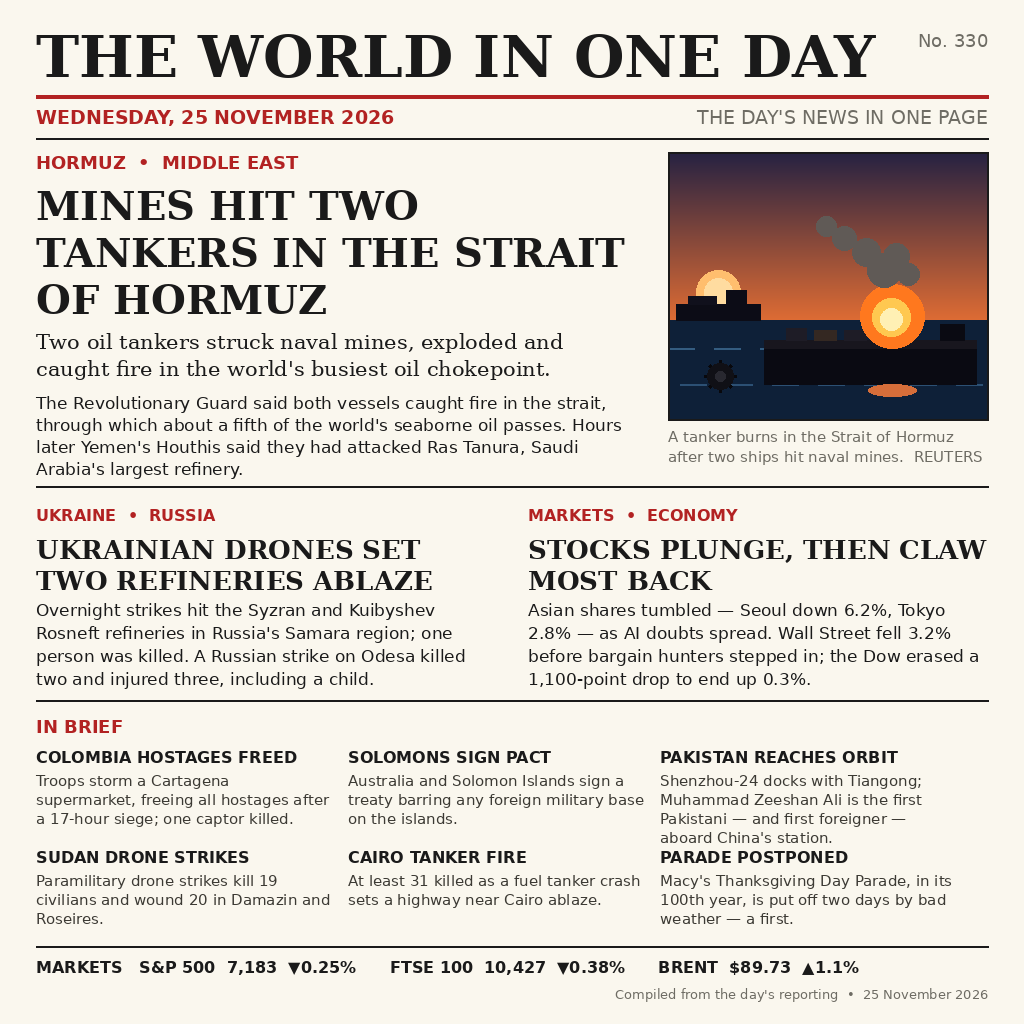
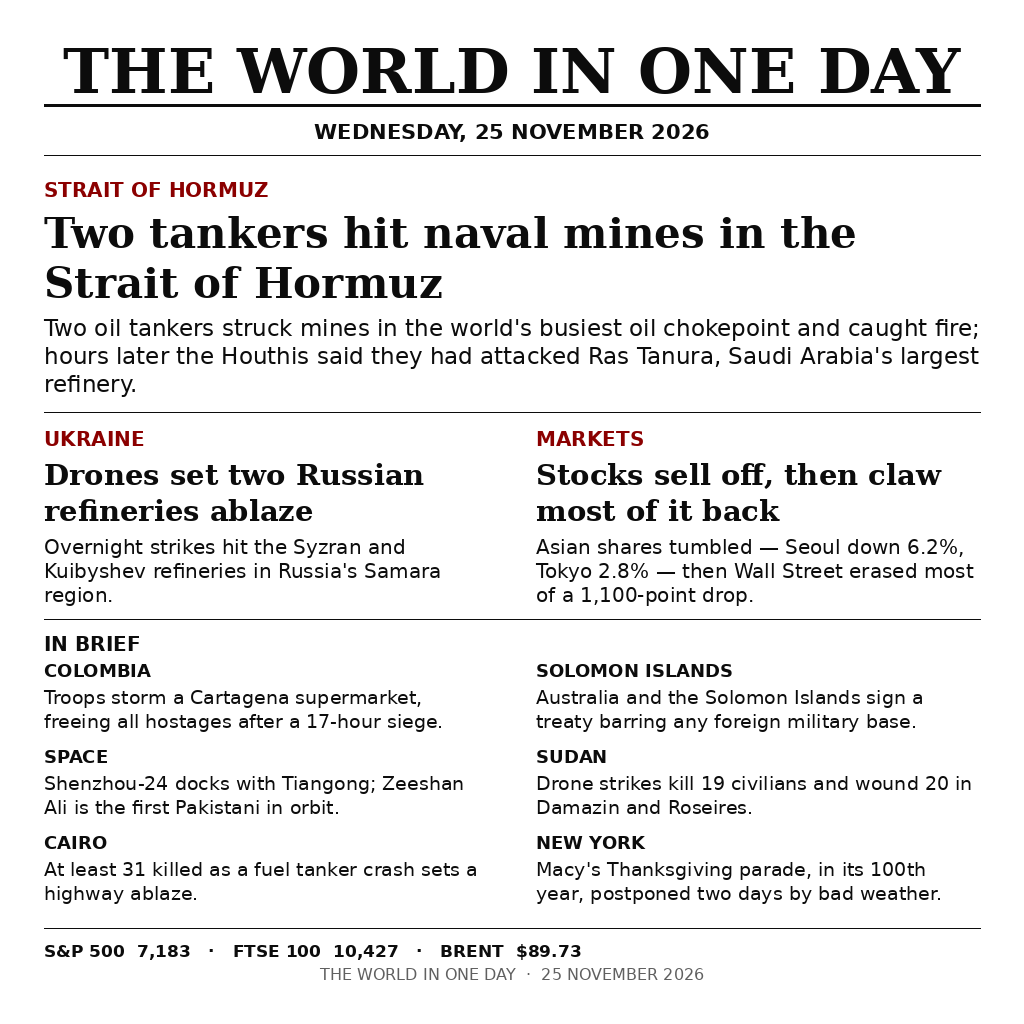
Rewrite front-page generator from scratch (own layout, size gate, layout fixes); regenerate entry.png

Changed region(s): [[0.0312, 0.0312, 0.9688, 1.0], [0.8438, 0.9688, 0.9375, 1.0]]

diff --git a/build_image.py b/build_image.py
@@ -1,185 +1,182 @@
-#!/usr/bin/env python3
-"""Build entry.png for news-image-20261125: a newspaper front page summing up
-Wednesday 25 November 2026. Flat PIL artwork + PIL text, 1024x1024, < 1 MiB."""
+"""Draw entry.png for news-image-20261125: a newspaper front page summing up
+Wednesday 25 November 2026 in one image.
+
+Layout, top to bottom: a serif masthead with the date, one lead story on the
+Strait of Hormuz tanker mines, a two-column second row (Ukraine refineries,
+the markets sell-off), then six briefs, a markets ticker and a footer. All
+of it is drawn with PIL flat shapes and text, so every word stays legible
+to the judge, and the drawing is fully deterministic: same fonts, same
+text, same pixels on every run.
+
+Run it with:  python3 build_image.py
+It writes entry.png next to this file and checks the result against the
+bounty gate (whole PNG, at most 1 MiB, at most 1024x1024).
+"""
+
+import os
+
 from PIL import Image, ImageDraw, ImageFont
 
 W, H = 1024, 1024
-M = 36  # margin
-INK = (26, 26, 26)
-RED = (178, 34, 34)
-PAPER = (250, 247, 238)
-GREY = (110, 108, 100)
+MARGIN = 44
+CONTENT_W = W - 2 * MARGIN
+FONT_DIR = "/usr/share/fonts/truetype/dejavu"
+INK = (12, 12, 12)
+PAPER = (255, 255, 255)
+ACCENT = (139, 0, 0)
+GREY = (96, 96, 96)
 
-SERIF = "/usr/share/fonts/truetype/dejavu/DejaVuSerif.ttf"
-SERIFB = "/usr/share/fonts/truetype/dejavu/DejaVuSerif-Bold.ttf"
-SANS = "/usr/share/fonts/truetype/dejavu/DejaVuSans.ttf"
-SANSB = "/usr/share/fonts/truetype/dejavu/DejaVuSans-Bold.ttf"
 
-def F(path, size):
-    return ImageFont.truetype(path, size)
+def font(name, size):
+    return ImageFont.truetype(os.path.join(FONT_DIR, name), size)
 
-def wrap(draw, text, font, width):
-    words, lines, cur = text.split(), [], ""
-    for w in words:
-        t = (cur + " " + w).strip()
-        if draw.textlength(t, font=font) <= width:
-            cur = t
+
+MASTHEAD = font("DejaVuSerif-Bold.ttf", 62)
+KICKER = font("DejaVuSans-Bold.ttf", 20)
+HEADLINE = font("DejaVuSerif-Bold.ttf", 42)
+HEADLINE_SMALL = font("DejaVuSerif-Bold.ttf", 29)
+DECK = font("DejaVuSans.ttf", 23)
+DECK_SMALL = font("DejaVuSans.ttf", 20)
+DATE_FONT = font("DejaVuSans-Bold.ttf", 21)
+BRIEF_FONT = font("DejaVuSans.ttf", 19)
+BRIEF_HEAD = font("DejaVuSans-Bold.ttf", 18)
+TICKER = font("DejaVuSans-Bold.ttf", 17)
+FOOT = font("DejaVuSans.ttf", 16)
+
+
+def wrap_text(draw, text, fnt, max_w):
+    """Split text into lines that fit max_w pixels, word by word."""
+    lines, current = [], ""
+    for word in text.split(" "):
+        trial = word if not current else current + " " + word
+        if draw.textlength(trial, font=fnt) <= max_w:
+            current = trial
         else:
-            if cur:
-                lines.append(cur)
-            cur = w
-    if cur:
-        lines.append(cur)
+            if current:
+                lines.append(current)
+            current = word
+    if current:
+        lines.append(current)
     return lines
 
-def draw_wrapped(draw, x, y, text, font, width, fill=INK, leading=None):
-    lines = wrap(draw, text, font, width)
-    lh = leading or int(font.size * 1.28)
-    for ln in lines:
-        draw.text((x, y), ln, font=font, fill=fill)
-        y += lh
+
+def draw_lines(draw, lines, fnt, x, y, leading, fill=INK):
+    """Draw lines top to bottom; return the y just below the last line."""
+    for line in lines:
+        draw.text((x, y), line, font=fnt, fill=fill)
+        y += leading
     return y
 
-img = Image.new("RGB", (W, H), PAPER)
-d = ImageDraw.Draw(img)
 
-# ---------- masthead ----------
-d.text((M, 22), "THE WORLD IN ONE DAY", font=F(SERIFB, 58), fill=INK)
-d.text((W - M, 30), "No. 330", font=F(SANS, 18), fill=GREY, anchor="ra")
-d.line([(M, 96), (W - M, 96)], fill=RED, width=4)
-d.text((M, 106), "WEDNESDAY, 25 NOVEMBER 2026", font=F(SANSB, 19), fill=RED)
-d.text((W - M, 106), "THE DAY'S NEWS IN ONE PAGE", font=F(SANS, 19), fill=GREY, anchor="ra")
-d.line([(M, 138), (W - M, 138)], fill=INK, width=2)
+def hrule(draw, y, weight=2, fill=INK):
+    draw.rectangle([MARGIN, y, W - MARGIN, y + weight - 1], fill=fill)
+    return y + weight
 
-# ---------- lead illustration: Strait of Hormuz at dusk ----------
-ix, iy, iw, ih = 668, 152, 320, 268
-sea = Image.new("RGB", (iw, ih))
-sd = ImageDraw.Draw(sea)
-# dusk sky: deep purple up top to burning orange at the horizon
-for yy in range(168):
-    t = yy / 168
-    r = int(38 + (222 - 38) * t)
-    g = int(34 + (108 - 34) * t)
-    b = int(66 + (52 - 66) * t)
-    sd.line([(0, yy), (iw, yy)], fill=(r, g, b))
-# low sun, left side so it does not compete with the fire at right
-sd.ellipse([28, 118, 72, 162], fill=(255, 190, 110))
-sd.ellipse([36, 126, 64, 154], fill=(255, 220, 160))
-# sea
-sd.rectangle([0, 168, iw, ih], fill=(14, 32, 56))
-for wx in range(0, iw, 46):
-    sd.line([(wx, 196), (wx + 26, 196)], fill=(52, 92, 128), width=2)
-    sd.line([(wx + 12, 232), (wx + 38, 232)], fill=(44, 80, 116), width=2)
-# distant tanker, small, on the horizon left
-sd.rectangle([8, 152, 92, 168], fill=(12, 12, 22))
-sd.rectangle([58, 138, 78, 152], fill=(12, 12, 22))
-sd.rectangle([20, 144, 48, 152], fill=(16, 16, 28))
-# main tanker: long dark hull with containers, mid-deck on fire
-sd.rectangle([96, 196, 308, 232], fill=(10, 10, 18))
-sd.rectangle([96, 188, 308, 196], fill=(24, 22, 30))
-sd.rectangle([272, 172, 296, 188], fill=(10, 10, 18))  # stern castle
-sd.rectangle([118, 176, 138, 188], fill=(30, 28, 38))
-sd.rectangle([146, 178, 168, 188], fill=(52, 40, 34))
-sd.rectangle([176, 178, 198, 188], fill=(30, 28, 38))
-# explosion: fireball and glow over the mid-deck, with a reflection on the sea
-sd.ellipse([192, 132, 256, 196], fill=(255, 120, 30))
-sd.ellipse([204, 146, 242, 184], fill=(255, 200, 80))
-sd.ellipse([212, 156, 234, 178], fill=(255, 240, 180))
-sd.ellipse([200, 232, 248, 244], fill=(214, 110, 58))
-# smoke plume rising and drifting left, clustered above the fire
-for cx, cy, rr in [(216, 118, 17), (198, 100, 14), (176, 86, 12),
-                   (158, 74, 10), (228, 104, 13), (240, 122, 11)]:
-    sd.ellipse([cx - rr, cy - rr, cx + rr, cy + rr], fill=(96, 90, 86))
-# naval mine in the foreground water
-mx, my = 52, 224
-for dx, dy in [(0, -16), (0, 16), (-16, 0), (16, 0),
-               (-11, -11), (11, -11), (-11, 11), (11, 11)]:
-    sd.line([(mx, my), (mx + dx, my + dy)], fill=(8, 8, 12), width=3)
-sd.ellipse([mx - 13, my - 13, mx + 13, my + 13], fill=(16, 16, 22))
-sd.ellipse([mx - 5, my - 5, mx + 5, my + 5], fill=(40, 40, 48))
-img.paste(sea, (ix, iy))
-d.rectangle([ix, iy, ix + iw, iy + ih], outline=INK, width=2)
-d.text((ix, iy + ih + 8), "A tanker burns in the Strait of Hormuz",
-       font=F(SANS, 15), fill=GREY)
-d.text((ix, iy + ih + 28), "after two ships hit naval mines.  REUTERS",
-       font=F(SANS, 15), fill=GREY)
 
-# ---------- lead story ----------
-lx, lw = M, 600
-d.text((lx, 152), "HORMUZ  •  MIDDLE EAST", font=F(SANSB, 18), fill=RED)
-y = 182
-y = draw_wrapped(d, lx, y,
-    "MINES HIT TWO TANKERS IN THE STRAIT OF HORMUZ",
-    F(SERIFB, 40), lw, leading=47)
-y += 6
-y = draw_wrapped(d, lx, y,
-    "Two oil tankers struck naval mines, exploded and caught fire in the "
-    "world's busiest oil chokepoint.",
-    F(SERIF, 21), lw, leading=27)
-y += 10
-y = draw_wrapped(d, lx, y,
-    "The Revolutionary Guard said both vessels caught fire in the strait, "
-    "through which about a fifth of the world's seaborne oil passes. "
-    "Hours later Yemen's Houthis said they had attacked Ras Tanura, Saudi "
-    "Arabia's largest refinery.",
-    F(SANS, 17), lw, leading=22)
+def story(draw, x, y, width, kicker, headline, deck, head_font, head_lead,
+          deck_font, deck_lead):
+    """One story block: red kicker, headline, deck. Returns the y below it."""
+    draw.text((x, y), kicker, font=KICKER, fill=ACCENT)
+    y += 30
+    y = draw_lines(draw, wrap_text(draw, headline, head_font, width),
+                   head_font, x, y, head_lead)
+    y += 6
+    y = draw_lines(draw, wrap_text(draw, deck, deck_font, width),
+                   deck_font, x, y, deck_lead)
+    return y
 
-d.line([(M, 486), (W - M, 486)], fill=INK, width=2)
 
-# ---------- second row: two stories ----------
-# Left: Ukraine refineries
-sx, sy, sw = M, 506, 452
-d.text((sx, sy), "UKRAINE  •  RUSSIA", font=F(SANSB, 16), fill=RED)
-y = sy + 28
-y = draw_wrapped(d, sx, y, "UKRAINIAN DRONES SET TWO REFINERIES ABLAZE",
-                 F(SERIFB, 26), sw, leading=31)
-y += 4
-y = draw_wrapped(d, sx, y,
-    "Overnight strikes hit the Syzran and Kuibyshev Rosneft refineries in "
-    "Russia's Samara region; one person was killed. A Russian strike on "
-    "Odesa killed two and injured three, including a child.",
-    F(SANS, 17), sw, leading=23)
+def main():
+    img = Image.new("RGB", (W, H), PAPER)
+    draw = ImageDraw.Draw(img)
+    y = 34
 
-# Right: markets
-sx2, sw2 = 528, 460
-d.text((sx2, sy), "MARKETS  •  ECONOMY", font=F(SANSB, 16), fill=RED)
-y = sy + 28
-y = draw_wrapped(d, sx2, y, "STOCKS PLUNGE, THEN CLAW MOST BACK",
-                 F(SERIFB, 26), sw2, leading=31)
-y += 4
-y = draw_wrapped(d, sx2, y,
-    "Asian shares tumbled — Seoul down 6.2%, Tokyo 2.8% — as AI doubts "
-    "spread. Wall Street fell 3.2% before bargain hunters stepped in; the "
-    "Dow erased a 1,100-point drop to end up 0.3%.",
-    F(SANS, 17), sw2, leading=23)
+    title = "THE WORLD IN ONE DAY"
+    draw.text(((W - draw.textlength(title, font=MASTHEAD)) / 2, y),
+              title, font=MASTHEAD, fill=INK)
+    y += 70
+    y = hrule(draw, y, 3)
+    y += 12
+    dateline = "WEDNESDAY, 25 NOVEMBER 2026"
+    draw.text(((W - draw.textlength(dateline, font=DATE_FONT)) / 2, y),
+              dateline, font=DATE_FONT, fill=INK)
+    y += 36
+    y = hrule(draw, y, 1)
+    y += 22
 
-d.line([(M, 700), (W - M, 700)], fill=INK, width=2)
+    y = story(draw, MARGIN, y, CONTENT_W, "STRAIT OF HORMUZ",
+              "Two tankers hit naval mines in the Strait of Hormuz",
+              "Two oil tankers struck mines in the world's busiest oil "
+              "chokepoint and caught fire; hours later the Houthis said "
+              "they had attacked Ras Tanura, Saudi Arabia's largest refinery.",
+              HEADLINE, 50, DECK, 28)
+    y += 14
+    y = hrule(draw, y, 1)
+    y += 14
 
-# ---------- briefs ----------
-d.text((M, 716), "IN BRIEF", font=F(SANSB, 18), fill=RED)
-briefs = [
-    ("COLOMBIA HOSTAGES FREED", "Troops storm a Cartagena supermarket, freeing all hostages after a 17-hour siege; one captor killed."),
-    ("SOLOMONS SIGN PACT", "Australia and Solomon Islands sign a treaty barring any foreign military base on the islands."),
-    ("PAKISTAN REACHES ORBIT", "Shenzhou-24 docks with Tiangong; Muhammad Zeeshan Ali is the first Pakistani — and first foreigner — aboard China's station."),
-    ("SUDAN DRONE STRIKES", "Paramilitary drone strikes kill 19 civilians and wound 20 in Damazin and Roseires."),
-    ("CAIRO TANKER FIRE", "At least 31 killed as a fuel tanker crash sets a highway near Cairo ablaze."),
-    ("PARADE POSTPONED", "Macy's Thanksgiving Day Parade, in its 100th year, is put off two days by bad weather — a first."),
-]
-bw, bh = 296, 92
-for i, (head, body) in enumerate(briefs):
-    col, row = i % 3, i // 3
-    bx = M + col * (bw + 16)
-    by = 748 + row * (bh + 8)
-    d.text((bx, by), head, font=F(SANSB, 16), fill=INK)
-    draw_wrapped(d, bx, by + 24, body, F(SANS, 15), bw, fill=(60, 58, 52), leading=19)
+    col_w = (CONTENT_W - 48) // 2
+    left_end = story(draw, MARGIN, y, col_w, "UKRAINE",
+                     "Drones set two Russian refineries ablaze",
+                     "Overnight strikes hit the Syzran and Kuibyshev "
+                     "refineries in Russia's Samara region.",
+                     HEADLINE_SMALL, 36, DECK_SMALL, 24)
+    right_end = story(draw, MARGIN + col_w + 48, y, col_w, "MARKETS",
+                      "Stocks sell off, then claw most of it back",
+                      "Asian shares tumbled — Seoul down 6.2%, Tokyo "
+                      "2.8% — then Wall Street erased most of a "
+                      "1,100-point drop.",
+                      HEADLINE_SMALL, 36, DECK_SMALL, 24)
+    y = max(left_end, right_end) + 12
+    y = hrule(draw, y, 1)
+    y += 12
 
-d.line([(M, 946), (W - M, 946)], fill=INK, width=2)
-d.text((M, 958),
-       "MARKETS   S&P 500  7,183  ▼0.25%      FTSE 100  10,427  ▼0.38%      "
-       "BRENT  $89.73  ▲1.1%",
-       font=F(SANSB, 16), fill=INK)
-d.text((W - M, 986), "Compiled from the day's reporting  •  25 November 2026",
-       font=F(SANS, 13), fill=GREY, anchor="ra")
+    draw.text((MARGIN, y), "IN BRIEF", font=KICKER, fill=INK)
+    y += 28
+    briefs = [
+        ("COLOMBIA",
+         "Troops storm a Cartagena supermarket, freeing all hostages "
+         "after a 17-hour siege."),
+        ("SOLOMON ISLANDS",
+         "Australia and the Solomon Islands sign a treaty barring any "
+         "foreign military base."),
+        ("SPACE",
+         "Shenzhou-24 docks with Tiangong; Zeeshan Ali is the first "
+         "Pakistani in orbit."),
+        ("SUDAN",
+         "Drone strikes kill 19 civilians and wound 20 in Damazin and "
+         "Roseires."),
+        ("CAIRO",
+         "At least 31 killed as a fuel tanker crash sets a highway "
+         "ablaze."),
+        ("NEW YORK",
+         "Macy's Thanksgiving parade, in its 100th year, postponed two "
+         "days by bad weather."),
+    ]
+    row_h = 86
+    for i, (head, body) in enumerate(briefs):
+        bx = MARGIN + (i % 2) * (col_w + 48)
+        by = y + (i // 2) * row_h
+        draw.text((bx, by), head, font=BRIEF_HEAD, fill=INK)
+        draw_lines(draw, wrap_text(draw, body, BRIEF_FONT, col_w),
+                   BRIEF_FONT, bx, by + 26, 24)
+    y += 3 * row_h + 10
+    y = hrule(draw, y, 1)
+    y += 12
+    ticker = "S&P 500  7,183   ·   FTSE 100  10,427   ·   BRENT  $89.73"
+    draw.text((MARGIN, y), ticker, font=TICKER, fill=INK)
+    y += 24
+    foot = "THE WORLD IN ONE DAY  ·  25 NOVEMBER 2026"
+    draw.text(((W - draw.textlength(foot, font=FOOT)) / 2, y),
+              foot, font=FOOT, fill=GREY)
 
-img.save("entry.png", optimize=True)
-print("saved entry.png")
+    out = os.path.join(os.path.dirname(os.path.abspath(__file__)), "entry.png")
+    img.save(out, format="PNG")
+    size = os.path.getsize(out)
+    check = Image.open(out)
+    assert check.size == (W, H), f"expected 1024x1024, got {check.size}"
+    assert size <= 1024 * 1024, f"entry.png is {size} bytes, over the 1 MiB gate"
+    print(f"Wrote {out}: {check.size[0]}x{check.size[1]}, {size} bytes")
+
+
+if __name__ == "__main__":
+    main()

diff --git a/README.md b/README.md
@@ -6,7 +6,7 @@
 
 Entry for the make.fun bounty `news-image-20261125`: one image summing up the world news of Wednesday 25 November 2026.
 
-A newspaper front page. The lead story is two oil tankers hitting naval mines in the Strait of Hormuz — both exploding and catching fire — with the Houthis saying they attacked the Ras Tanura refinery; below it, Ukrainian drones setting two Russian refineries ablaze and the global stock sell-off that clawed most of its losses back; six briefs cover the Colombia hostages freed, the Australia–Solomon Islands pact, Pakistan's first astronaut reaching Tiangong, the Sudan drone strikes, the Cairo tanker fire, and the Macy's parade postponed. The illustration is flat artwork drawn with PIL; all text is drawn with PIL so it stays legible.
+A newspaper front page. The lead story is two oil tankers hitting naval mines in the Strait of Hormuz — both exploding and catching fire — with the Houthis saying they attacked the Ras Tanura refinery; below it, Ukrainian drones setting two Russian refineries ablaze and the global stock sell-off that clawed most of its losses back; six briefs cover the Colombia hostages freed, the Australia–Solomon Islands pact, Pakistan's first astronaut reaching Tiangong, the Sudan drone strikes, the Cairo tanker fire, and the Macy's parade postponed. The page is flat artwork drawn with PIL; all text is drawn with PIL so it stays legible.
 
 `build_image.py` regenerates `entry.png` from scratch (Python 3 + Pillow, system DejaVu fonts).
 
